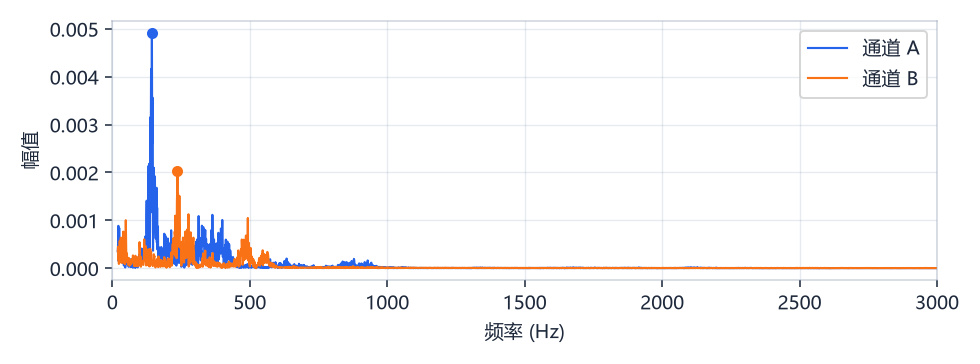
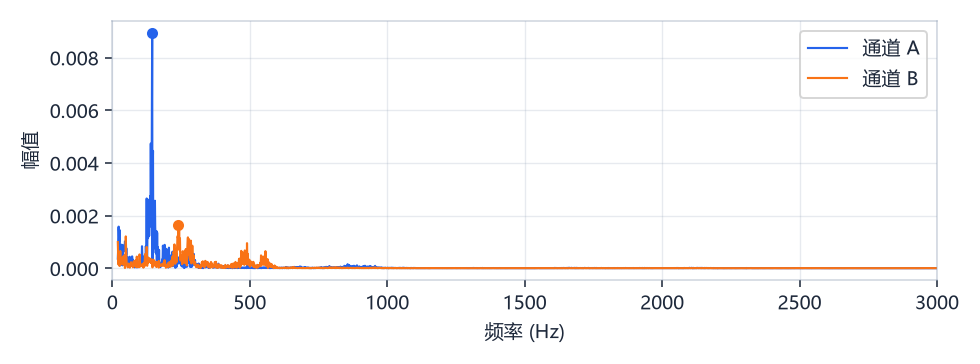
feat: 优化带通滤波器实现，更新报告数据，新增单元测试

diff --git a/tests/test_analysis.py b/tests/test_analysis.py
@@ -1,0 +1,86 @@
+import unittest
+from pathlib import Path
+
+import numpy as np
+
+from core.analysis import chebyshev2_bandpass, correlation_vector, evaluate_band
+from core.io import AnalysisParams, apply_config, parse_data_file
+
+
+class CorrelationVectorTests(unittest.TestCase):
+    def test_delayed_a_maps_to_greater_distance_from_sensor_a(self):
+        base = np.random.default_rng(7).normal(size=2000)
+        lag = 20
+        a = np.concatenate((np.zeros(lag), base[:-lag]))
+        b = base.copy()
+
+        correlation, distance = correlation_vector(
+            a, b, distance=200.0, velocity=1000.0, fs=10000.0
+        )
+
+        self.assertGreater(distance[np.argmax(correlation)], 100.0)
+
+
+class BandpassTests(unittest.TestCase):
+    def test_narrow_low_frequency_filter_remains_finite(self):
+        values = np.random.default_rng(7).normal(size=7500)
+
+        filtered = chebyshev2_bandpass(values, 60.0, 200.0, fs=7500.0)
+
+        self.assertTrue(np.isfinite(filtered).all())
+        self.assertLess(np.max(np.abs(filtered)), 100.0)
+
+
+class ReportSampleTests(unittest.TestCase):
+    def test_report_distances_stay_close_to_verified_results(self):
+        root = Path(__file__).resolve().parents[1]
+        cases = [
+            ("测试报告20260319.57", "测试数据.57.160526.txt", (60, 200), 110.61),
+            ("测试报告20260319.60", "测试数据.60.160725.txt", (110, 500), 97.54),
+            ("测试报告20260319.61", "测试数据.61.160815.txt", (60, 200), 105.04),
+            ("测试报告20260319.62", "测试数据.62.160852.txt", (60, 200), 111.46),
+            ("测试报告20260319.65", "测试数据.65.161243.txt", (100, 400), 112.08),
+            ("测试报告20261124.8", "测试数据.8.132407.txt", (1000, 1500), 99.16),
+        ]
+
+        for folder, filename, band, expected in cases:
+            with self.subTest(folder=folder, band=band):
+                data_a, data_b = parse_data_file(root / "data" / folder / filename)
+                result, _, _ = evaluate_band(
+                    data_a[:75000], data_b[:75000], 209.0, 1160.0, *band
+                )
+                self.assertTrue(result.ok)
+                self.assertLessEqual(abs(result.dis_a - expected), 2.1)
+
+
+class ApplyConfigTests(unittest.TestCase):
+    def test_accepts_legacy_low_high_frequency_fields(self):
+        params = AnalysisParams()
+
+        applied = apply_config(
+            params, {"LowFrequency": "100", "HighFrequency": "3000"}
+        )
+
+        self.assertEqual(applied, 2)
+        self.assertEqual(params.freq_min, 100.0)
+        self.assertEqual(params.freq_max, 3000.0)
+
+    def test_primary_frequency_fields_take_precedence(self):
+        params = AnalysisParams()
+
+        apply_config(
+            params,
+            {
+                "MinFrequency": "200",
+                "LowFrequency": "100",
+                "MaxFrequency": "2500",
+                "HighFrequency": "3000",
+            },
+        )
+
+        self.assertEqual(params.freq_min, 200.0)
+        self.assertEqual(params.freq_max, 2500.0)
+
+
+if __name__ == "__main__":
+    unittest.main()

diff --git a/core/analysis.py b/core/analysis.py
@@ -63,10 +63,10 @@ def chebyshev2_bandpass(values: Iterable[float], low: float, high: float,
 
     try:
         order, wn = signal.cheb2ord(wp, ws, PASS_RIPPLE_DB, STOP_ATTEN_DB)
-        b, a = signal.cheby2(order, 40.0, wn, btype="bandpass")
-        if len(b) > len(x):
-            return x.copy()
-        return signal.filtfilt(b, a, x)
+        sos = signal.cheby2(
+            order, STOP_ATTEN_DB, wn, btype="bandpass", output="sos"
+        )
+        return signal.sosfiltfilt(sos, x)
     except (ValueError, RuntimeError):
         return x.copy()
 
@@ -131,8 +131,9 @@ def correlation_vector(a: np.ndarray, b: np.ndarray, distance: float,
     dis_axis = np.zeros(point_num, dtype=np.float64)
 
     for i in range(max_lag + 1):
-        corr[center - i] = pearson_overlap(a, b, i)
-        corr[center + i] = pearson_overlap(b, a, i)
+        # a 相对 b 延迟 i 个采样点时，传播到 A 的距离增加。
+        corr[center + i] = pearson_overlap(a, b, i)
+        corr[center - i] = pearson_overlap(b, a, i)
         half = velocity * sampling_interval_us / 2.0 * i * 1e-6
         dis_axis[center - i] = distance / 2.0 - half
         dis_axis[center + i] = distance / 2.0 + half

diff --git a/core/io.py b/core/io.py
@@ -116,8 +116,10 @@ def apply_config(params: AnalysisParams, config: dict[str, Any]) -> int:
     for keys, field_name, cast in (
             (("PipeLength", "distance"), "distance", float),
             (("PipeDiameter", "diameter"), "diameter", take_int),
-            (("MaxFrequency", "maxFrequency", "freqMax"), "freq_max", float),
-            (("MinFrequency", "minFrequency", "freqMin"), "freq_min", float),
+            (("MaxFrequency", "maxFrequency", "freqMax",
+              "HighFrequency", "highFrequency"), "freq_max", float),
+            (("MinFrequency", "minFrequency", "freqMin",
+              "LowFrequency", "lowFrequency"), "freq_min", float),
             (("Velocity", "velocity"), "velocity", float),
     ):
         value = next((config[key] for key in keys if key in config), None)
